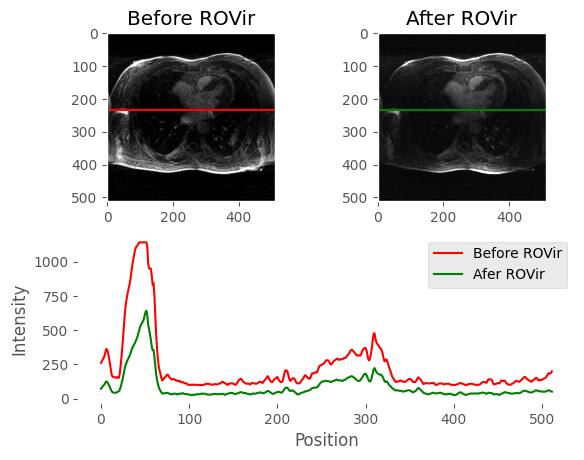
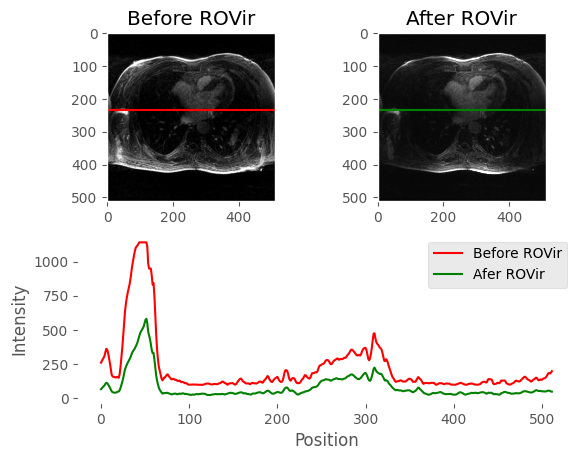
Update methodology eigen

diff --git a/ROVir/main.py b/ROVir/main.py
@@ -13,6 +13,7 @@ import cv2 as cv
 import scipy.misc
 import matplotlib.image as mpimg
 import matplotlib
+import seaborn as sns
 
 # Matplotlib configuration
 matplotlib.use('tkagg')
@@ -35,7 +36,6 @@ A_H = slice(120, 280)
 B1_H = slice(50, 450)
 
 LINE = 300
-DEBUGGING = False
 
 regions = [A_W, A_H, B1_W, B1_H, B2_W]
 
@@ -57,8 +57,6 @@ def main():
     img_np = np.array(img.dataobj) 
     img_np = np.flip(img_np, [0,1])
 
-    plot_coils(filter_coils(img_np,1))
-
     prev_img = combine_images(img_np)
     prev_img = auto_contrast(prev_img, 0.99)
 
@@ -66,39 +64,23 @@ def main():
 
     regions = [A_W, A_H, B1_W, B1_H, B2_W]
 
-    rovir_coils, bot_coils = ROVir(img_np, regions,  lowf)
+    rovir_coils, _ = ROVir(img_np, regions,  lowf)
 
     new_img = combine_images(rovir_coils)
-    #new_img = auto_contrast(new_img, 0.99)
-    bot_img = combine_images(bot_coils)
+    #bot_img = combine_images(bot_coils)
 
     nmax1 = np.max(prev_img[H_H, H_W])
     nmax2 = np.max(new_img[H_H, H_W])
 
-    fig, ax = plt.subplots()
-    ax.imshow(prev_img)
-    
-   # plot_image(
-   #     prev_img,
-   #     save=True
-   # )
-
-    plot_images(prev_img,
-                "Before ROVir",
-                int(nmax1)*2.5,
-                new_img,
-                "After ROVir",
-                int(nmax2)*2,
-                save=True
-                )
-
     plot_images(
+        prev_img,
+        "Before ROVir",
+        int(nmax1)*2.5,
         new_img,
-        "Top coils",
-        int(nmax2),
-        bot_img,
-        "Bottom coils",
-        int(nmax1)*2.5
+        "After ROVir",
+        nmax2=800,
+        save=True,
+        saveTitle="Comparing Rovir"
     )
 
     plot_intensities(
@@ -106,11 +88,13 @@ def main():
         235, save=True
     )
     plt.tight_layout()
-    plt.show()
+    plt.show(block=False)
+    plt.close('all') 
 
-    cv.normalize(
-        prev_img, prev_img, 
-        0, 255, cv.CV_8U
+    prev_img = cv.normalize(
+        prev_img, None, 
+        0, 255, cv.NORM_MINMAX,
+        cv.CV_32F
     )
     cv.imwrite("prev_img.png", prev_img)
 

diff --git a/ROVir/methods/ROVir.py b/ROVir/methods/ROVir.py
@@ -9,9 +9,9 @@ import matplotlib.pyplot as plt
 def ROVir(coils, regions, lowf):
     A_W, A_H, B1_W, B1_H, B2_W = regions
 
-    print("Filtering the image...")
+    print("Filtering coils...")
     #w_coils = coils*filter_coils(coils)
-    w_coils = filter_coils(coils, 25)
+    w_coils = filter_coils(coils, 12)
 
     #plot_coils(w_coils)
     HEIGHT, WIDTH, NCOILS = w_coils.shape
@@ -23,6 +23,13 @@ def ROVir(coils, regions, lowf):
     A[A_H, A_W, :] = w_coils[A_H, A_W, :]
     B[B1_H, B1_W, :] = w_coils[B1_H, B1_W, :]
     B[B1_H, B2_W, :] = w_coils[B1_H, B2_W, :]
+
+    coil = 2
+    fig, ax = plt.subplots()
+    ax.imshow(w_coils[..., coil])
+    fig, ax = plt.subplots()
+    ax.imshow(coils[...,coil])
+    
 
     plot_masks(
         combine_images(coils),

diff --git a/ROVir/methods/image_manipulation.py b/ROVir/methods/image_manipulation.py
@@ -80,20 +80,22 @@ def save_image(img, title):
 
 
 def plot_images(img1, title1, nmax1, img2,
-                title2, nmax2, save=False):
+                title2, nmax2, save=False,
+                saveTitle=""):
     fig, axs = plt.subplots(1, 2)
-    im1 = axs[0].imshow(img1,
-                        cmap='gray')
+    im1 = axs[0].imshow(
+        img1,cmap='gray',
+        vmin=0, vmax=nmax1)
     axs[0].set_title(title1)
 
     im2 = axs[1].imshow(
         img2,cmap='gray',
-        vmin=0, vmax=800
+        vmin=0, vmax=nmax2
     )
     axs[1].set_title(title2)
 
     if save:
-        plt.savefig("comparing_imgs.png", transparent=True)
+        plt.savefig(saveTitle+".png", transparent=True)
 
 
 def plot_coils(coils, title=''):

diff --git a/ROVir/methods/matrix_manipulation.py b/ROVir/methods/matrix_manipulation.py
@@ -46,20 +46,7 @@ def generate_matrix(coils):
 
     for i in range(ncoils):
         for j in range(ncoils):
-            matrix[i, j] = np.sum(coils[:, i].T.dot(coils[:, j]))
-
-    return matrix
-
-
-def generate_matrix_im(coils):
-    """Generate a matrix according to ROVir method"""
-
-    ncoils = coils.shape[0]
-    matrix = np.zeros((ncoils, ncoils)).astype(np.csingle)
-    for i in range(ncoils):
-        for j in range(ncoils):
-            matrix[i, j] = np.sum(
-                np.matrix(coils[i, :, :]).H.dot(coils[i, :, :]))
+            matrix[i, j] = np.sum(coils[:, j].T.dot(coils[:, i]))
 
     return matrix
 
